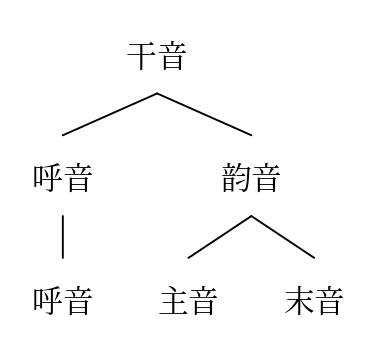
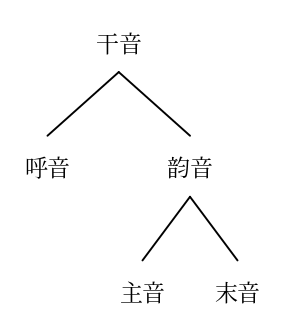
Update

diff --git a/Home.md b/Home.md
@@ -16,6 +16,4 @@
 - [📖 附录](附录.md)
 - [📖 文献](文献.md)
 
-本库提供与音元系统有关的 Markdown 文件。读者可点击上方链接，浏览相关内容。
-在阅读过程中，发现有不能显示的字符，请到代码库的 font 目录下载经过修改的字体 NotoSans-Regular.ttf 并在本机上安装且在浏览器中把标准字体设置成 Noto Sans，就能浏览。
-欢迎提出建议和意见，以帮助改进和完善这套语音系统的文档内容。
+这个项目文集是音元系统的说明文件。点击上方链接，可以阅读其各部分内容。 在阅读过程中，如发现在本机上不能显示的字符，请到代码库的 font 目录下载经过修改的字体 NotoSans-Regular.ttf 并在本机上安装且在浏览器中把标准字体设置成 Noto Sans，就能浏览。 欢迎提出建议和意见，以帮助改进和完善这套语音系统的文档内容。
